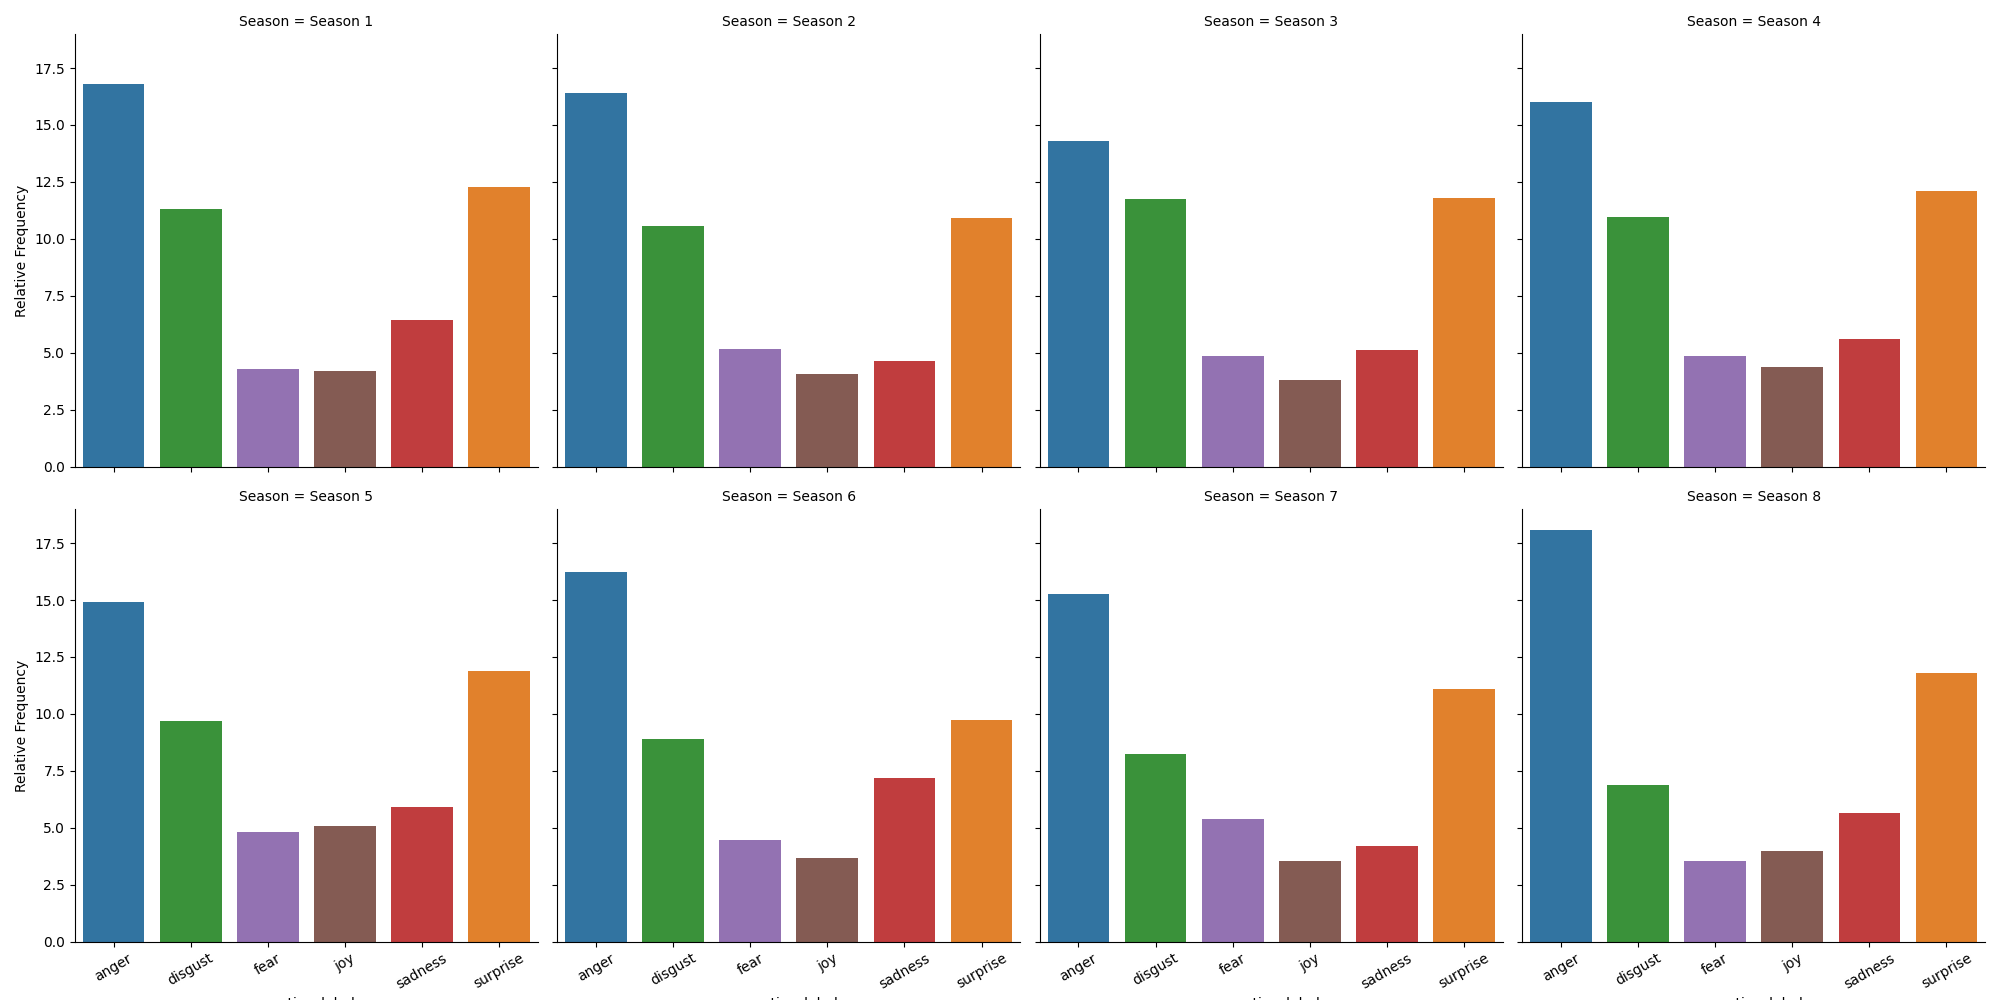
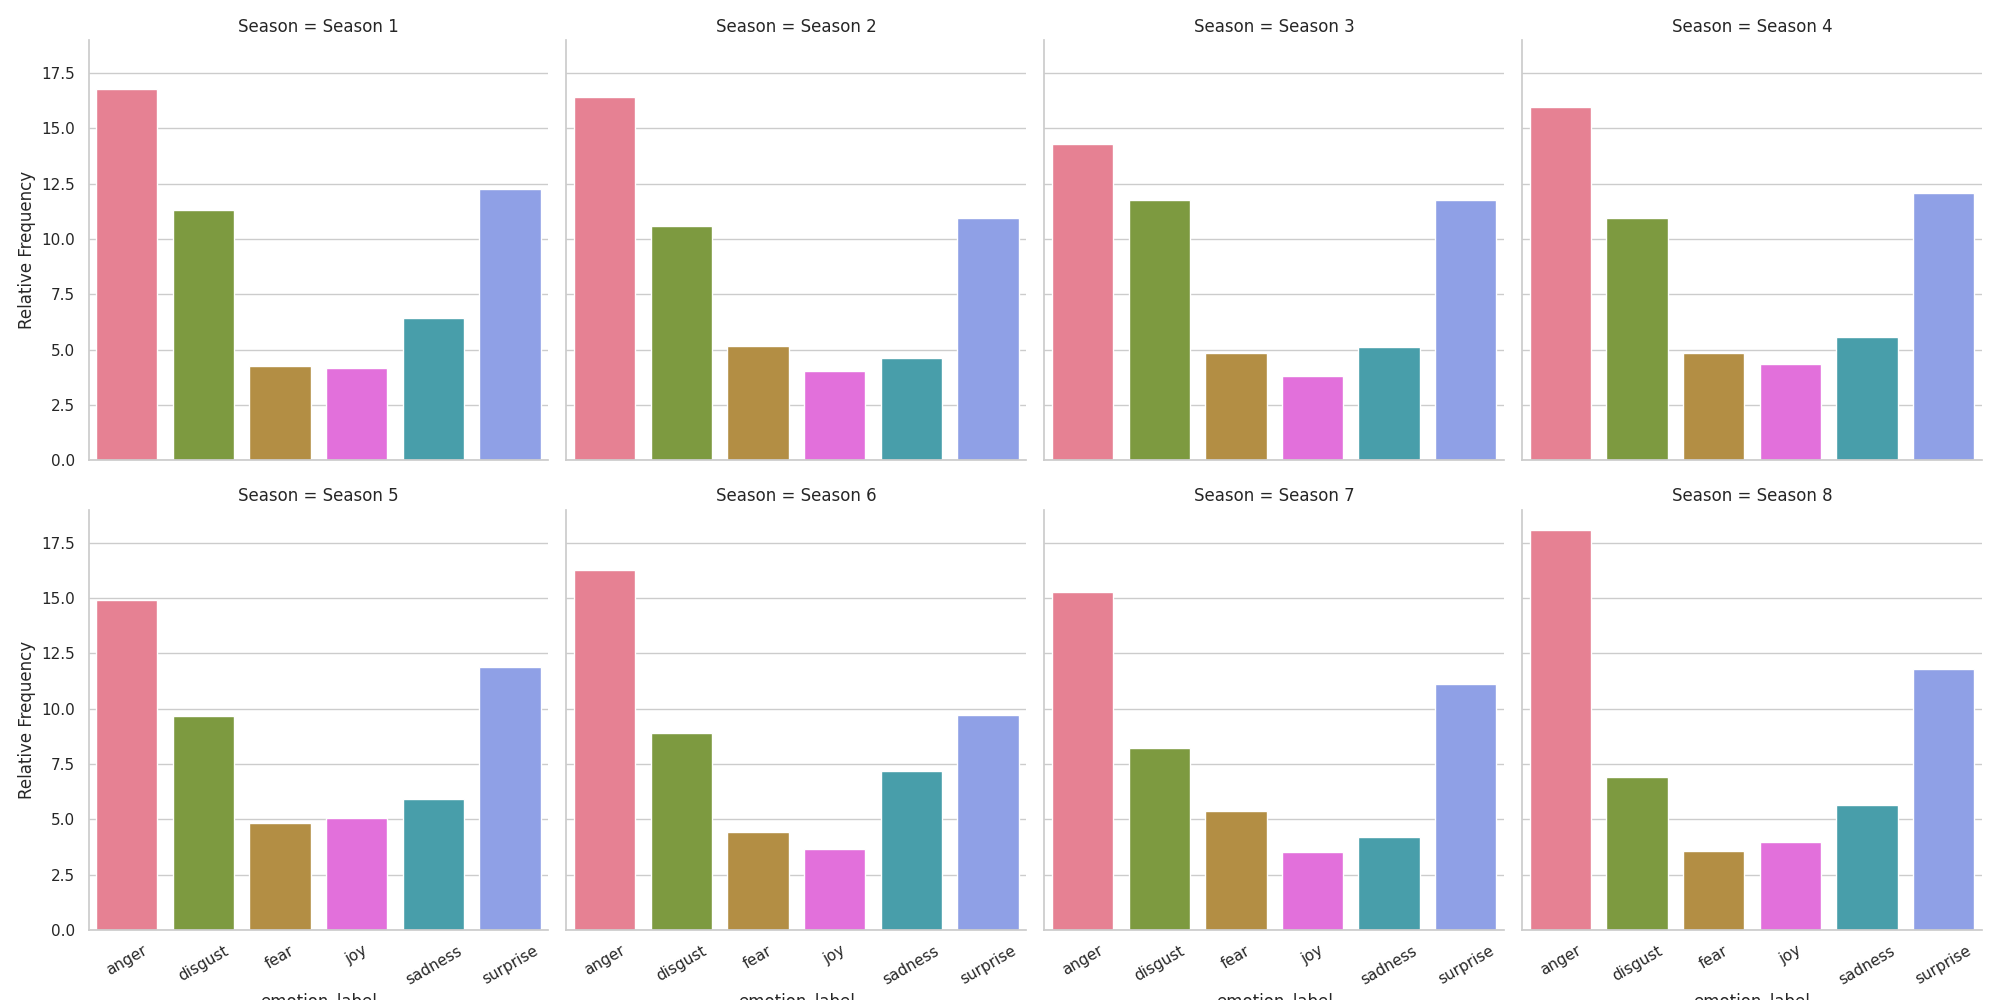
finished plots

diff --git a/assignment-4/src/GoT_emotions.py b/assignment-4/src/GoT_emotions.py
@@ -110,10 +110,14 @@ def bar_plot(data, xcol, subsep, suborder, xorder, neut, subcols):
     The function saves the plot to the out folder, its name indicates how the subplots 
     are defined and whether neutral is included.
     """
+    colours = list(sns.color_palette("husl", 7))
+    colour_dict = {"anger": colours[0], "disgust": colours[2], "fear": colours[1], "joy": colours[6], 
+                   "neutral": colours[3], "sadness": colours[4], "surprise": colours[5]}
+    sns.set_theme(style = "whitegrid")
     g = sns.catplot(data, 
                     x= xcol, 
                     y = "Relative Frequency",
-                    hue = xcol,  
+                    hue = "emotion_label",  
                     col = subsep, 
                     kind = "bar",
                     col_wrap = subcols,
@@ -131,15 +135,15 @@ def plot_emotions(dataframe, neut):
     based on seasons and emotion labels. 
     """
     seasons =  ["Season 1", "Season 2", "Season 3", "Season 4", "Season 5", "Season 6", "Season 7", "Season 8"]
+    emotions = ["anger", "disgust", "fear", "joy", "neutral", "sadness", "surprise"]
     if neut == "w_neut":
-        emotions_w_neut = ["anger", "disgust", "fear", "joy", "neutral", "sadness", "surprise"]
-        bar_plot(dataframe, "emotion_label", "Season", seasons, emotions_w_neut, neut, 4)
-        bar_plot(dataframe, "Season", "emotion_label", emotions_w_neut, seasons, neut, 4)
+        bar_plot(dataframe, "emotion_label", "Season", seasons, emotions, neut, 4)
+        bar_plot(dataframe, "Season", "emotion_label", emotions, seasons, neut, 4)
     elif neut == "rm_neut":
+        emotions.remove("neutral")
         dataframe_rm_neut = dataframe[dataframe["emotion_label"] != "neutral"]
-        emotions_rm_neut = ["anger", "disgust", "fear", "joy", "sadness", "surprise"]
-        bar_plot(dataframe_rm_neut, "emotion_label", "Season", seasons, emotions_rm_neut, neut, 4)
-        bar_plot(dataframe_rm_neut, "Season", "emotion_label", emotions_rm_neut, seasons, neut, 3)
+        bar_plot(dataframe_rm_neut, "emotion_label", "Season", seasons, emotions, neut, 4)
+        bar_plot(dataframe_rm_neut, "Season", "emotion_label", emotions, seasons, neut, 3)
 
 
 def main():
